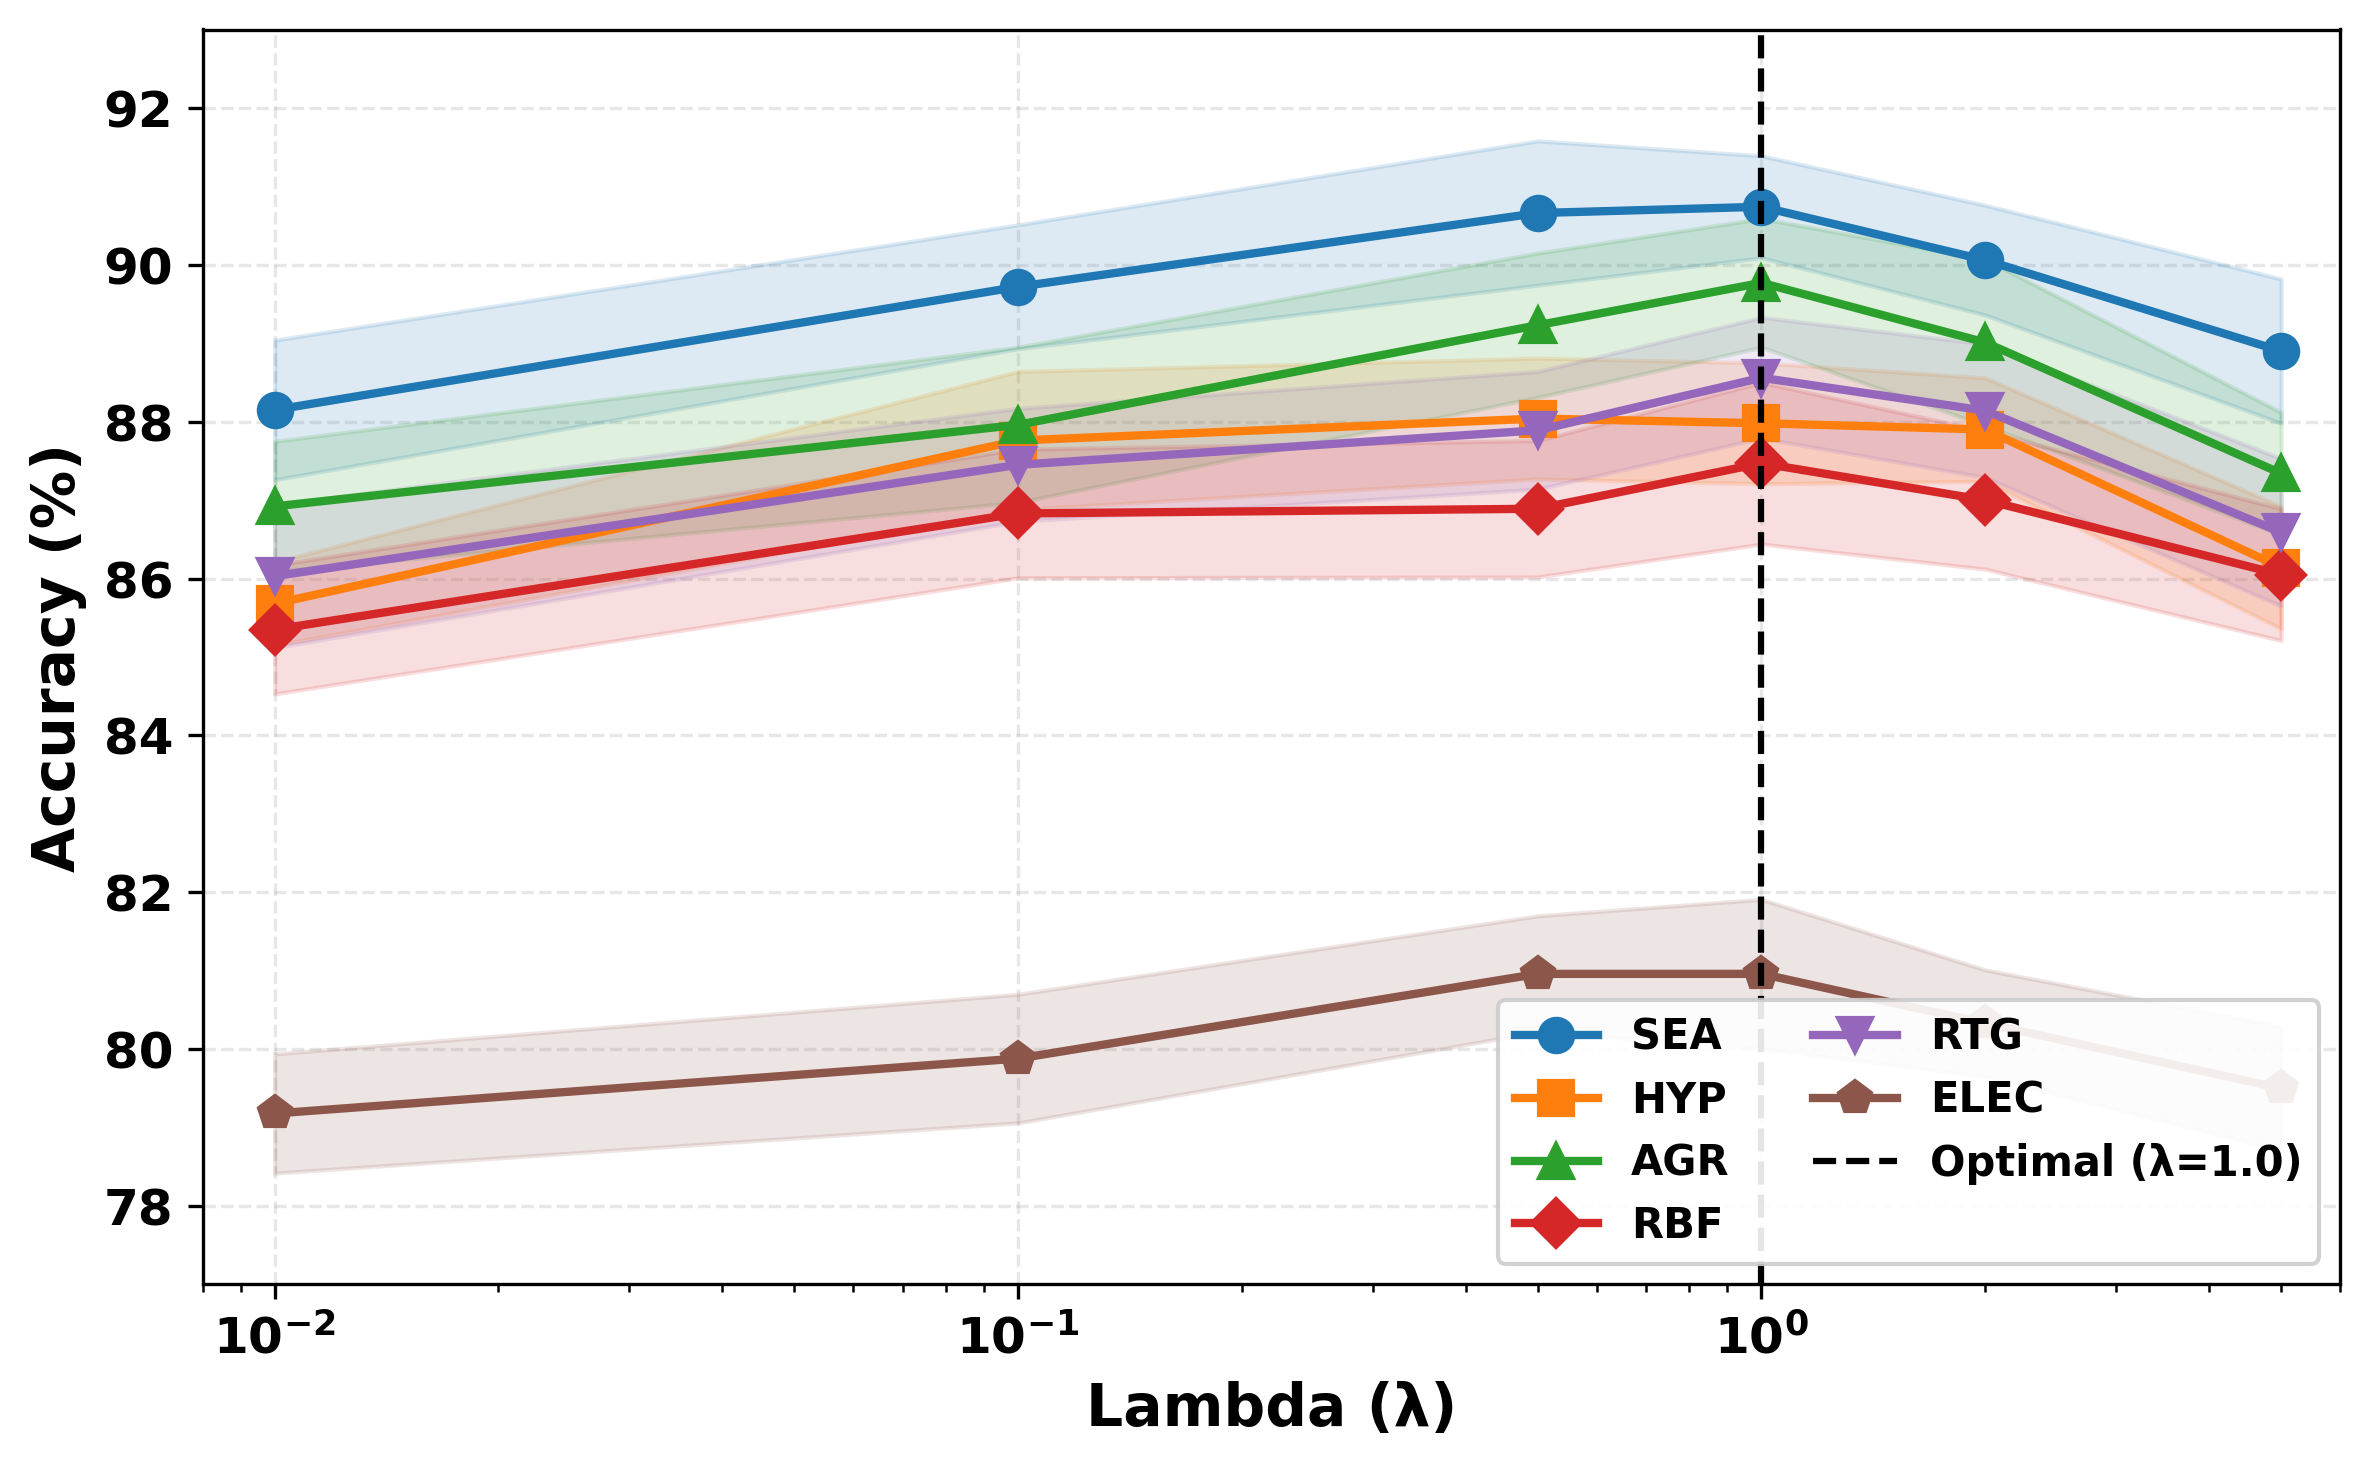
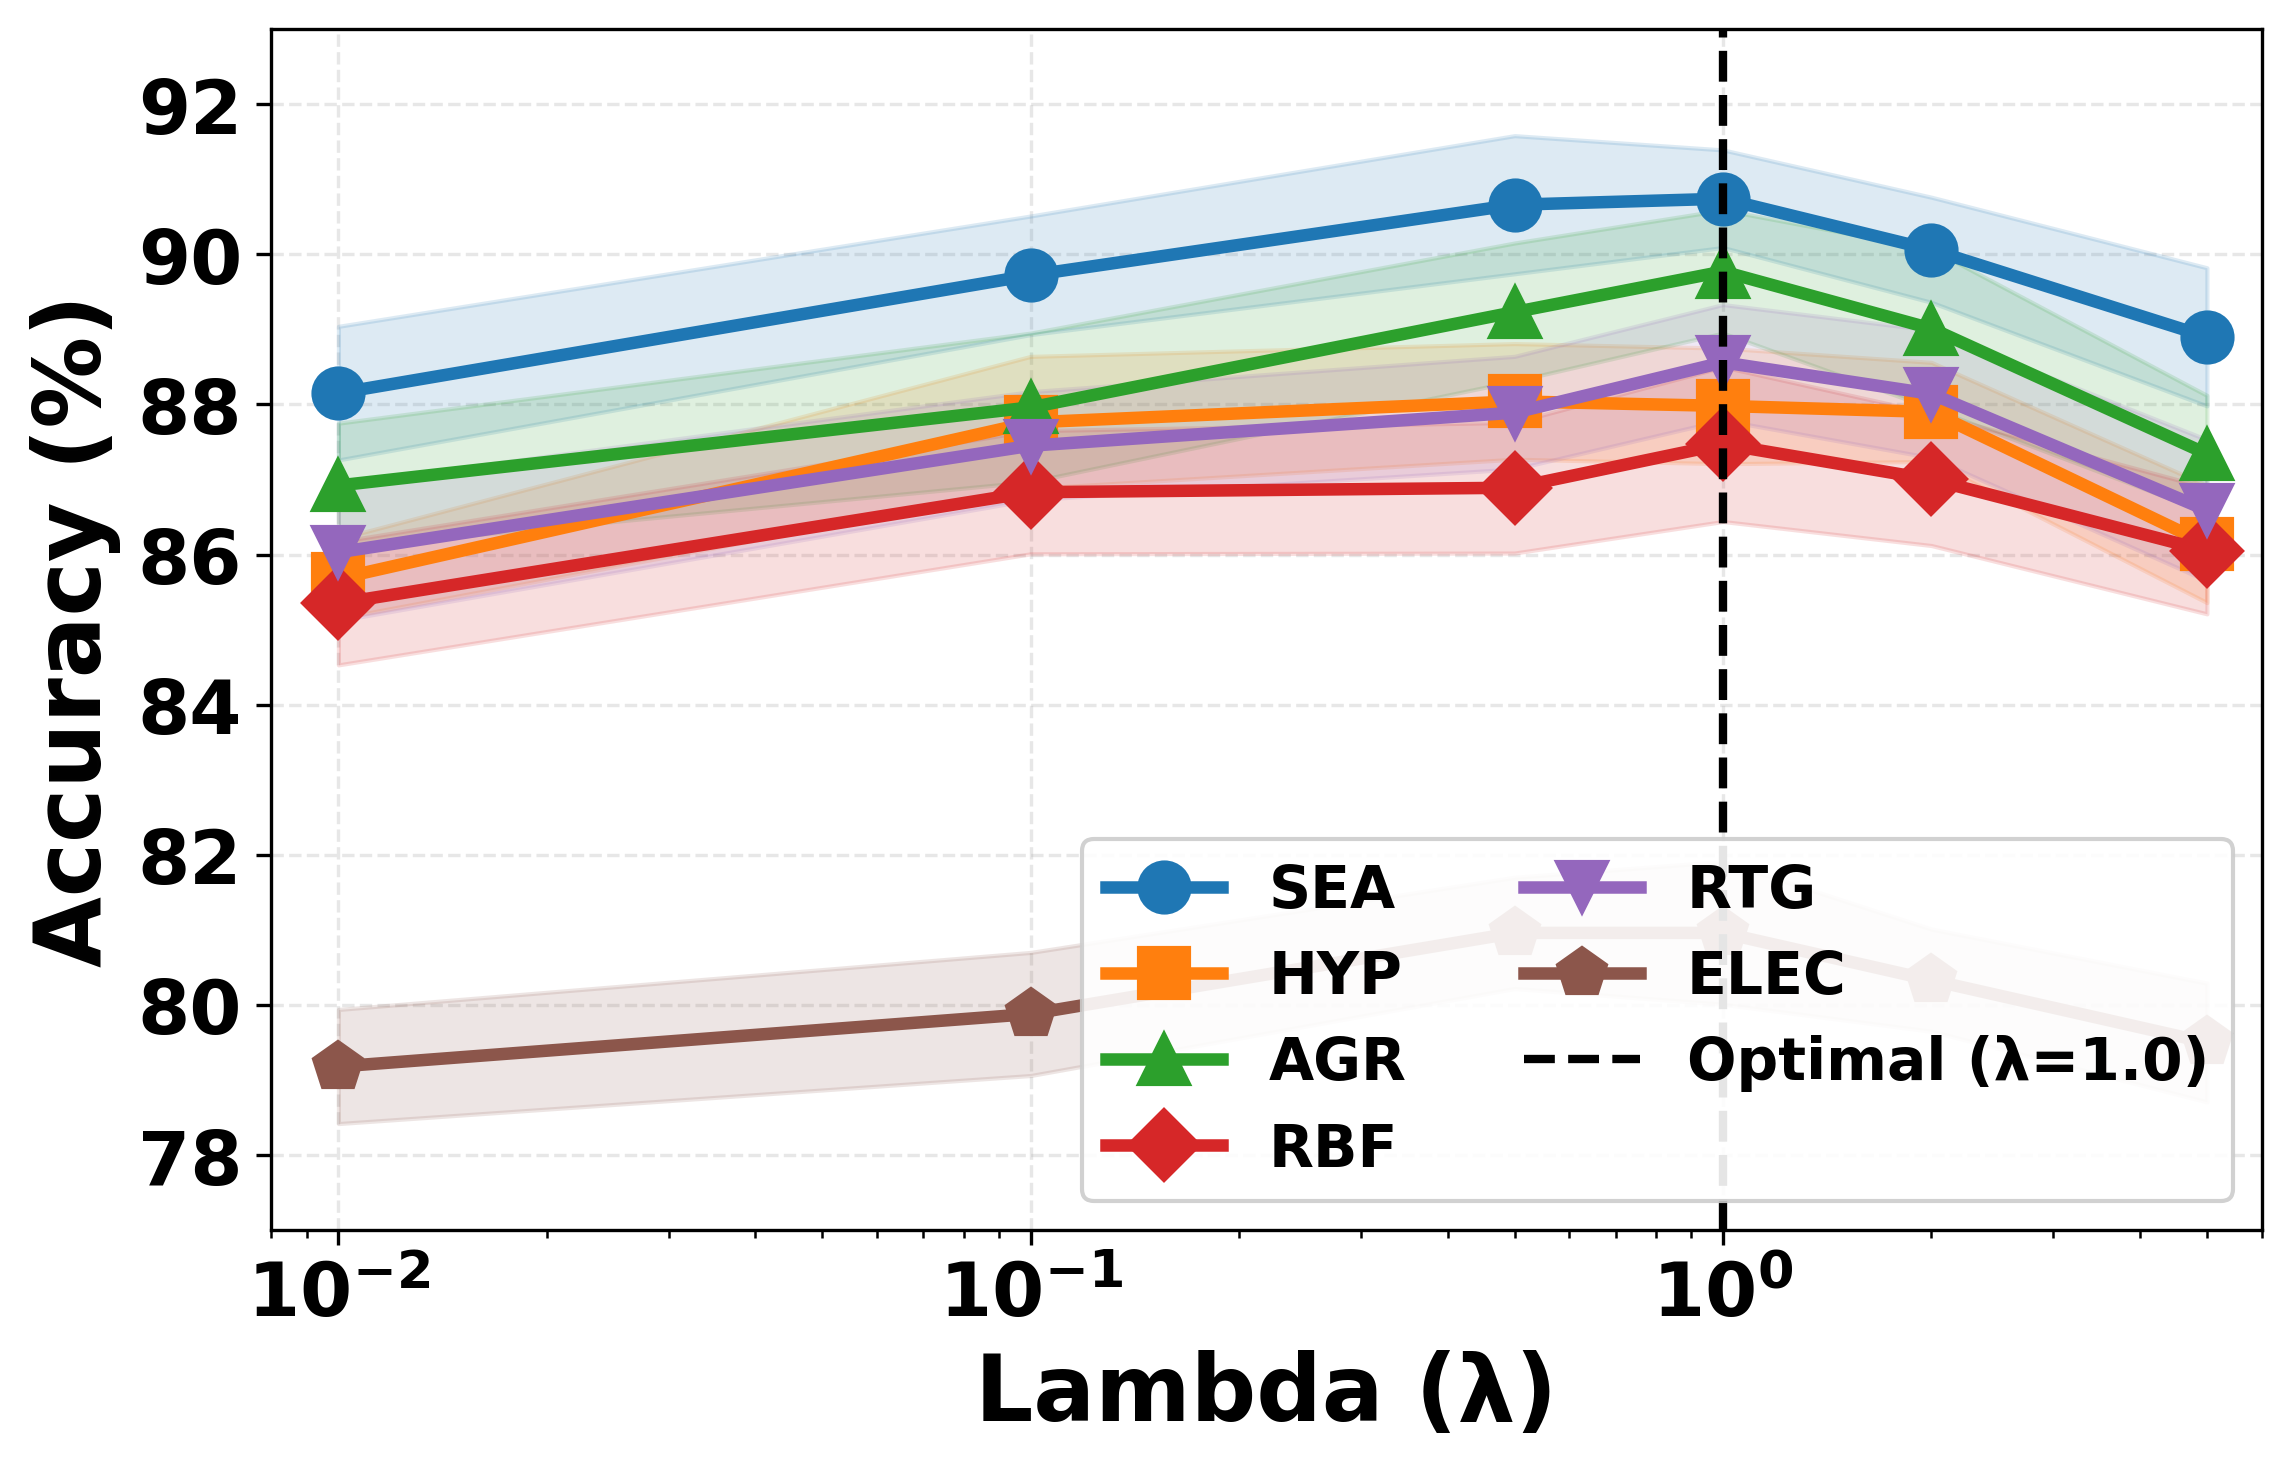
docs(paper): update paper with comprehensive results and analysis
- Add detailed results with both GaussianNB and HAT base classifiers
- Include comprehensive ablation study and sensitivity analysis
- Update theoretical analysis with proper citations
- Improve computational efficiency analysis
- Add statistical significance testing results
- Update references and bibliography
- Fix various formatting and citation issues
- Move images to proper directories
- Update supplementary material with focused analysis

BREAKING CHANGE: Major restructuring of results section with new experimental data and analysis

Changed region(s): [[0.0, 0.0, 0.9917, 0.9816], [0.031, 0.0, 0.124, 0.092]]

diff --git a/plotting/chart_lambda_sensitivity.py b/plotting/chart_lambda_sensitivity.py
@@ -21,15 +21,15 @@ CHARTS_DIR = os.path.join(SCRIPT_DIR, "charts")
 
 os.makedirs(CHARTS_DIR, exist_ok=True)
 
-# Plot settings
+# Plot settings - larger fonts for subfigure display
 rcParams['font.weight'] = 'bold'
 rcParams['axes.titleweight'] = 'bold'
 rcParams['axes.labelweight'] = 'bold'
-rcParams['axes.titlesize'] = 14
-rcParams['axes.labelsize'] = 14
-rcParams['xtick.labelsize'] = 12
-rcParams['ytick.labelsize'] = 12
-rcParams['legend.fontsize'] = 10
+rcParams['axes.titlesize'] = 22
+rcParams['axes.labelsize'] = 22
+rcParams['xtick.labelsize'] = 18
+rcParams['ytick.labelsize'] = 18
+rcParams['legend.fontsize'] = 16
 
 DATASET_NAMES = {
     'sea': 'SEA',
@@ -85,26 +85,26 @@ def plot_lambda_sensitivity(data):
         name = DATASET_NAMES.get(ds, ds.upper())
 
         ax.plot(lambda_values, accuracies, marker=marker, color=color,
-                linewidth=2, markersize=8, label=name)
+                linewidth=3, markersize=12, label=name)
         ax.fill_between(lambda_values,
                         np.array(accuracies) - np.array(stds),
                         np.array(accuracies) + np.array(stds),
                         color=color, alpha=0.15)
 
     # Mark optimal lambda
-    ax.axvline(x=optimal, color='black', linestyle='--', linewidth=1.5,
+    ax.axvline(x=optimal, color='black', linestyle='--', linewidth=2,
                label=f'Optimal (λ={optimal})')
 
-    ax.set_xlabel('Lambda (λ)', fontsize=14, fontweight='bold')
-    ax.set_ylabel('Accuracy (%)', fontsize=14, fontweight='bold')
+    ax.set_xlabel('Lambda (λ)', fontsize=22, fontweight='bold')
+    ax.set_ylabel('Accuracy (%)', fontsize=22, fontweight='bold')
 
     ax.set_xscale('log')
     ax.set_xlim(0.008, 6)
     ax.set_ylim(77, 93)
 
-    ax.legend(loc='lower right', framealpha=0.9, ncol=2)
+    ax.legend(loc='lower right', framealpha=0.9, ncol=2, fontsize=14)
 
-    ax.tick_params(axis='both', which='major', labelsize=12)
+    ax.tick_params(axis='both', which='major', labelsize=18)
     for label in ax.get_xticklabels() + ax.get_yticklabels():
         label.set_fontweight('bold')
 

diff --git a/plotting/chart_alpha_sensitivity.py b/plotting/chart_alpha_sensitivity.py
@@ -21,15 +21,15 @@ CHARTS_DIR = os.path.join(SCRIPT_DIR, "charts")
 
 os.makedirs(CHARTS_DIR, exist_ok=True)
 
-# Plot settings
+# Plot settings - larger fonts for subfigure display
 rcParams['font.weight'] = 'bold'
 rcParams['axes.titleweight'] = 'bold'
 rcParams['axes.labelweight'] = 'bold'
-rcParams['axes.titlesize'] = 14
-rcParams['axes.labelsize'] = 14
-rcParams['xtick.labelsize'] = 12
-rcParams['ytick.labelsize'] = 12
-rcParams['legend.fontsize'] = 10
+rcParams['axes.titlesize'] = 22
+rcParams['axes.labelsize'] = 22
+rcParams['xtick.labelsize'] = 18
+rcParams['ytick.labelsize'] = 18
+rcParams['legend.fontsize'] = 16
 
 DATASET_NAMES = {
     'sea': 'SEA',
@@ -85,25 +85,25 @@ def plot_alpha_sensitivity(data):
         name = DATASET_NAMES.get(ds, ds.upper())
 
         ax.plot(alpha_values, accuracies, marker=marker, color=color,
-                linewidth=2, markersize=8, label=name)
+                linewidth=3, markersize=12, label=name)
         ax.fill_between(alpha_values,
                         np.array(accuracies) - np.array(stds),
                         np.array(accuracies) + np.array(stds),
                         color=color, alpha=0.15)
 
     # Mark optimal alpha
-    ax.axvline(x=optimal, color='black', linestyle='--', linewidth=1.5,
+    ax.axvline(x=optimal, color='black', linestyle='--', linewidth=2,
                label=f'Optimal (α={optimal})')
 
-    ax.set_xlabel('Alpha (α)', fontsize=14, fontweight='bold')
-    ax.set_ylabel('Accuracy (%)', fontsize=14, fontweight='bold')
+    ax.set_xlabel('Alpha (α)', fontsize=22, fontweight='bold')
+    ax.set_ylabel('Accuracy (%)', fontsize=22, fontweight='bold')
 
     ax.set_xlim(0, 2.1)
     ax.set_ylim(74, 94)
 
-    ax.legend(loc='lower right', framealpha=0.9, ncol=2)
+    ax.legend(loc='lower right', framealpha=0.9, ncol=2, fontsize=14)
 
-    ax.tick_params(axis='both', which='major', labelsize=12)
+    ax.tick_params(axis='both', which='major', labelsize=18)
     for label in ax.get_xticklabels() + ax.get_yticklabels():
         label.set_fontweight('bold')
 

diff --git a/plotting/chart_window_sensitivity.py b/plotting/chart_window_sensitivity.py
@@ -21,15 +21,15 @@ CHARTS_DIR = os.path.join(SCRIPT_DIR, "charts")
 
 os.makedirs(CHARTS_DIR, exist_ok=True)
 
-# Plot settings
+# Plot settings - larger fonts for subfigure display
 rcParams['font.weight'] = 'bold'
 rcParams['axes.titleweight'] = 'bold'
 rcParams['axes.labelweight'] = 'bold'
-rcParams['axes.titlesize'] = 14
-rcParams['axes.labelsize'] = 14
-rcParams['xtick.labelsize'] = 12
-rcParams['ytick.labelsize'] = 12
-rcParams['legend.fontsize'] = 10
+rcParams['axes.titlesize'] = 22
+rcParams['axes.labelsize'] = 22
+rcParams['xtick.labelsize'] = 18
+rcParams['ytick.labelsize'] = 18
+rcParams['legend.fontsize'] = 16
 
 CONFIG_NAMES = {
     'statistical': 'Statistical',
@@ -82,7 +82,7 @@ def plot_window_sensitivity(data):
         name = CONFIG_NAMES.get(config, config)
 
         ax.plot(window_sizes, accuracies, marker=marker, color=color,
-                linewidth=2, markersize=8, label=name)
+                linewidth=3, markersize=12, label=name)
         ax.fill_between(window_sizes,
                         np.array(accuracies) - np.array(stds),
                         np.array(accuracies) + np.array(stds),
@@ -92,15 +92,15 @@ def plot_window_sensitivity(data):
     ax.axvline(x=optimal, color='black', linestyle='--', linewidth=1.5,
                label=f'Optimal (w={optimal})')
 
-    ax.set_xlabel('Window Size (w)', fontsize=14, fontweight='bold')
-    ax.set_ylabel('Selection Accuracy (%)', fontsize=14, fontweight='bold')
+    ax.set_xlabel('Window Size (w)', fontsize=22, fontweight='bold')
+    ax.set_ylabel('Selection Accuracy (%)', fontsize=22, fontweight='bold')
 
     ax.set_xlim(20, 210)
     ax.set_ylim(58, 98)
 
-    ax.legend(loc='lower right', framealpha=0.9)
+    ax.legend(loc='lower right', framealpha=0.9, fontsize=16)
 
-    ax.tick_params(axis='both', which='major', labelsize=12)
+    ax.tick_params(axis='both', which='major', labelsize=18)
     for label in ax.get_xticklabels() + ax.get_yticklabels():
         label.set_fontweight('bold')
 
